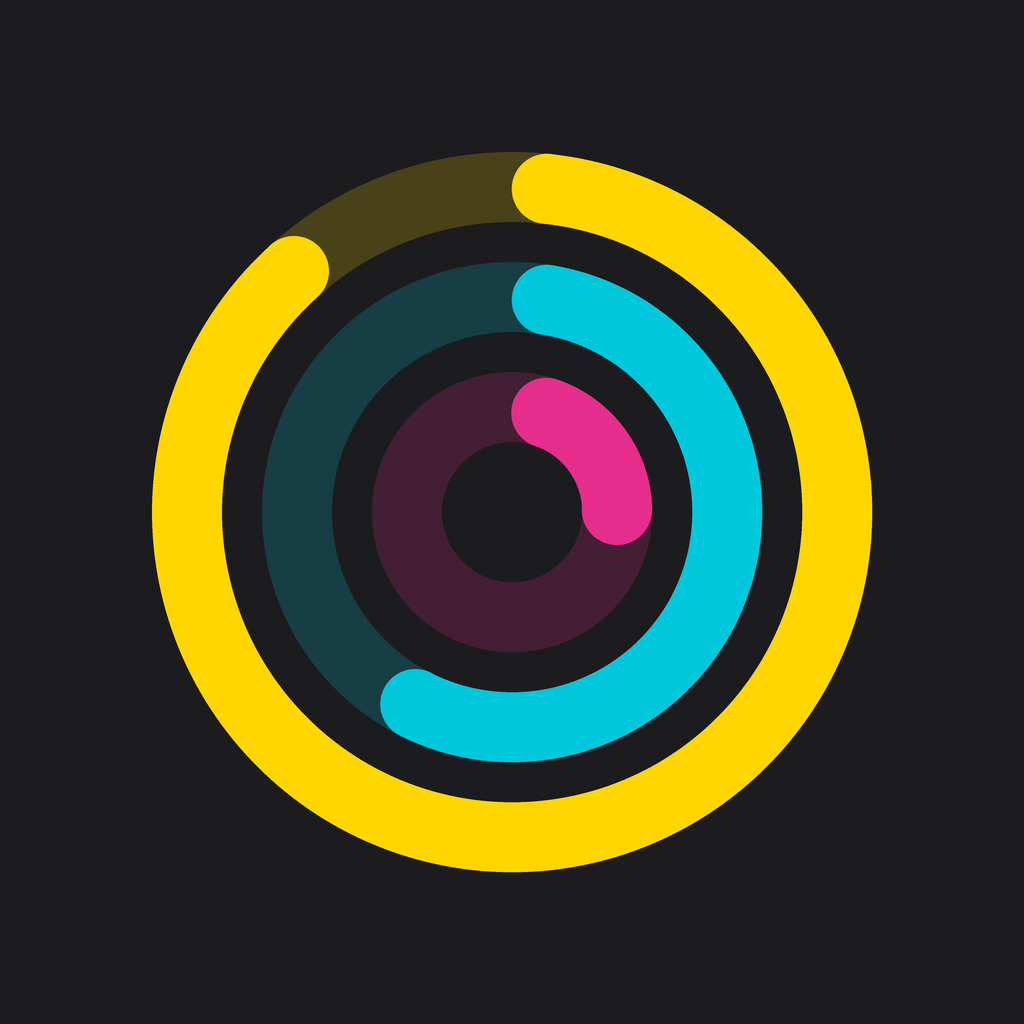
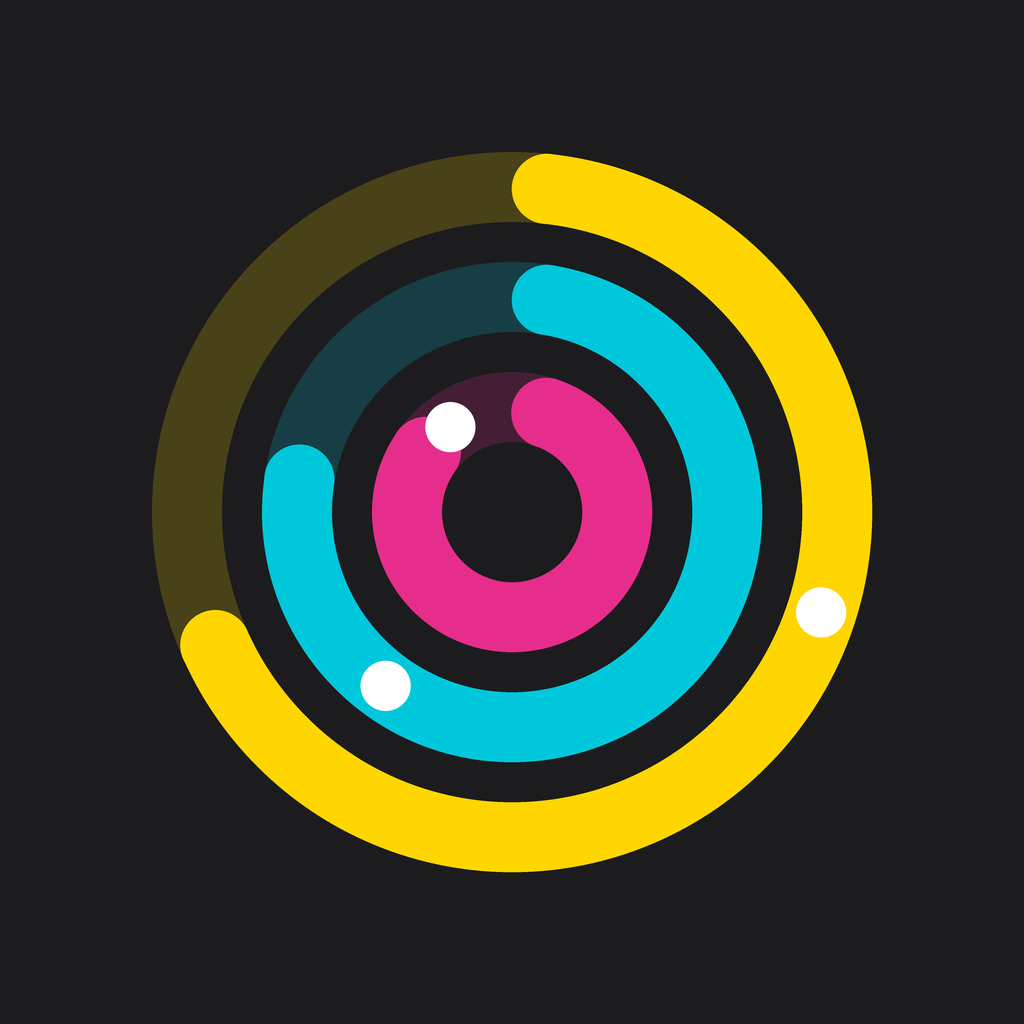
fix(agents): never let a question hook block Claude
Answering questions from the phone shipped as an always-on PreToolUse hook with a 300s timeout. That is the one hook Headroom installs that can block a tool call, and it made AskUserQuestion depend on Headroom being up: with the host down — which happens whenever the LaunchAgent is repointed mid-work — every question in every session stalled and came back interrupted.

It is off by default now, installed only when agent_remote_questions is on, and switching that off removes the hook instead of leaving a blocker behind. The wait drops from 285 seconds to 25: an approval has nowhere else to be answered, but a question is sitting unanswerable on the Mac for exactly as long as we hold it.

"No decision" is also an empty body now rather than an explicit permissionDecision value. That enum was read from documentation rather than verified, and a wrong value there does not degrade — it breaks the call. An empty body means the same thing in every version of the contract.

Changed region(s): [[0.125, 0.2188, 0.6562, 0.7188], [0.7812, 0.5625, 0.8438, 0.625]]

diff --git a/host/claude_hooks.py b/host/claude_hooks.py
@@ -8,17 +8,20 @@ import shutil
 import tempfile
 import urllib.parse
 
-VERSION = 2
+VERSION = 3
 DEFAULT_SETTINGS_PATH = os.path.expanduser("~/.claude/settings.json")
 MANAGED_PATH_PREFIX = "/agents/hooks/claude/"
+# PreToolUse is not in the always-installed set. It is the only hook here that
+# can block a tool call, so it is installed only when remote answering is
+# switched on — see app_config.agent_remote_questions.
 EVENTS = (
     "PermissionRequest",
-    "PreToolUse",
     "UserPromptSubmit",
     "Stop",
     "Notification",
     "SessionEnd",
 )
+OPTIONAL_EVENTS = ("PreToolUse",)
 
 # PreToolUse fires for every tool call, which is far more traffic than the
 # gateway wants. Scoped to the one tool whose answer Headroom can carry back:
@@ -30,8 +33,12 @@ ENDPOINTS = {
     "PreToolUse": "question",
 }
 
-# Hooks that park while a phone decides, versus ones that just post and go.
-SLOW_EVENTS = ("PermissionRequest", "PreToolUse")
+# How long each hook may park while a phone decides. A question waits far less
+# than an approval: the approval has nowhere else to be answered, while a
+# question is sitting unanswerable on the Mac for exactly as long as we hold
+# it. The value must stay above the adapter's own wait so the timeout that
+# fires is ours, with a decision, rather than Claude's, with none.
+TIMEOUTS = {"PermissionRequest": 300, "PreToolUse": 30}
 
 
 def _url(port, event):
@@ -47,7 +54,7 @@ def _entry(port, event):
     hook = {
         "type": "http",
         "url": _url(port, event),
-        "timeout": 300 if event in SLOW_EVENTS else 5,
+        "timeout": TIMEOUTS.get(event, 5),
     }
     return {"matcher": MATCHERS.get(event, ""), "hooks": [hook]}
 
@@ -139,11 +146,27 @@ def inspect(path=DEFAULT_SETTINGS_PATH, port=8737):
     }
 
 
-def install(path=DEFAULT_SETTINGS_PATH, port=8737):
+def install(path=DEFAULT_SETTINGS_PATH, port=8737, remote_questions=False):
+    """Install the observing hooks, and the blocking one only if asked.
+
+    PreToolUse is removed when `remote_questions` is off, so switching the
+    setting back off actually takes the hook out rather than leaving a blocker
+    behind.
+    """
     path = os.path.expanduser(path)
     value = _read(path)
     hooks = value.get("hooks")
     hooks = hooks if isinstance(hooks, dict) else {}
+    for event in OPTIONAL_EVENTS:
+        entries = hooks.get(event)
+        entries = entries if isinstance(entries, list) else []
+        entries = [entry for entry in entries if not _managed(entry)]
+        if remote_questions:
+            entries.append(_entry(port, event))
+        if entries:
+            hooks[event] = entries
+        else:
+            hooks.pop(event, None)
     for event in EVENTS:
         entries = hooks.get(event)
         entries = entries if isinstance(entries, list) else []

diff --git a/host/claude_code.py b/host/claude_code.py
@@ -23,6 +23,10 @@ import claude_hooks
 PROVIDER = "claude-code"
 ADAPTER = "claude-http-hooks"
 DEFAULT_WAIT_SECONDS = 285
+# A question is usually answered at the keyboard. Holding one for the
+# permission wait made it dead air on the Mac for nearly five minutes,
+# which is worse than never offering it on the phone at all.
+QUESTION_WAIT_SECONDS = 25
 MAX_WAIT_SECONDS = 600
 
 APPROVE_ONCE = {
@@ -290,13 +294,14 @@ def _answered(question, answer):
 
 
 def _defer():
-    """No opinion: let Claude's ordinary permission flow take over."""
-    return {
-        "hookSpecificOutput": {
-            "hookEventName": "PreToolUse",
-            "permissionDecision": "defer",
-        },
-    }
+    """No opinion, said the safest way there is: say nothing.
+
+    An empty body is unambiguously "this hook has no decision" in every
+    version of the hook contract. An explicit `permissionDecision` value is
+    only as safe as our reading of the enum, and a wrong guess there does not
+    degrade — it breaks the tool call.
+    """
+    return {}
 
 
 class _PendingPermission:
@@ -458,7 +463,7 @@ class ClaudeCodeHooks:
             },
         }
 
-    def question_request(self, payload, wait_seconds=DEFAULT_WAIT_SECONDS):
+    def question_request(self, payload, wait_seconds=QUESTION_WAIT_SECONDS):
         """Offer a question's own options as answers, via the deny channel.
 
         Returns `defer` for anything we cannot answer cleanly, which is the

diff --git a/host/test_claude_code.py b/host/test_claude_code.py
@@ -373,14 +373,12 @@ class ClaudeCodeHooksTests(unittest.TestCase):
         self.answer(event, "ask_on_mac")
         thread.join(timeout=2)
         self.assertEqual(
-            result["value"]["hookSpecificOutput"]["permissionDecision"],
-            "defer",
-        )
+            result["value"], {},
+            "no decision, said the only way that is safe in every version")
 
     def test_unanswered_question_defers_to_the_mac(self):
         result = self.adapter.question_request(self.question(), wait_seconds=1)
-        self.assertEqual(
-            result["hookSpecificOutput"]["permissionDecision"], "defer")
+        self.assertEqual(result, {})
         self.assertEqual(self.store.list(state="all")[0]["state"], "expired")
 
     def test_shapes_we_cannot_answer_cleanly_defer_without_a_row(self):
@@ -401,9 +399,8 @@ class ClaudeCodeHooksTests(unittest.TestCase):
             ]},
         }
         for payload in cases + [many]:
-            result = self.adapter.question_request(payload, wait_seconds=1)
             self.assertEqual(
-                result["hookSpecificOutput"]["permissionDecision"], "defer")
+                self.adapter.question_request(payload, wait_seconds=1), {})
         self.assertEqual(self.store.list(state="all"), [])
 
     def test_finished_notices_replace_rather_than_stack(self):

diff --git a/host/app_config.py b/host/app_config.py
@@ -329,6 +329,25 @@ def remember_task_folder(folder):
     return ordered
 
 
+def agent_remote_questions():
+    """Whether Headroom may hold a Claude question open for a phone answer.
+
+    Off by default, and deliberately so. Intercepting a question at
+    `PreToolUse` is the only way to answer it remotely, but it also makes the
+    question unanswerable at the Mac while Headroom holds it — and if the host
+    is down or restarting, every question in every session pays for it. That
+    is a bad trade unless you actually want to answer from your phone.
+    """
+    return get("agent_remote_questions") is True
+
+
+def set_agent_remote_questions(enabled):
+    if not isinstance(enabled, bool):
+        raise ValueError("enabled must be true or false")
+    _persist(agent_remote_questions=enabled)
+    return enabled
+
+
 def agent_gateway_enabled():
     """Whether Headroom may launch its supervised coding-agent adapter."""
     return get("agent_gateway_enabled") is True

diff --git a/host/headroom_server.py b/host/headroom_server.py
@@ -1730,8 +1730,12 @@ class Handler(BaseHTTPRequestHandler):
             action = payload.get("action")
             try:
                 if action == "install":
+                    remote = payload.get("remote_questions")
+                    if isinstance(remote, bool):
+                        app_config.set_agent_remote_questions(remote)
                     result = claude_hooks.install(
-                        port=self.server.server_port)
+                        port=self.server.server_port,
+                        remote_questions=app_config.agent_remote_questions())
                 elif action == "uninstall":
                     result = claude_hooks.uninstall(
                         port=self.server.server_port)

diff --git a/host/test_agent_http.py b/host/test_agent_http.py
@@ -205,7 +205,7 @@ class AgentHTTPTests(unittest.TestCase):
             "/agents/claude/config", {"action": "install"})
         self.assertEqual(status, 200)
         self.assertEqual(result["state"], "installed")
-        install.assert_called_once_with(port=8737)
+        install.assert_called_once_with(port=8737, remote_questions=False)
 
 
 if __name__ == "__main__":

diff --git a/docs/agent-attention.md b/docs/agent-attention.md
@@ -91,8 +91,20 @@ again — which is why `structured_question` reports `experimental` rather than
 - **`defer` is the default.** Timeout, an unmapped action, or **Ask on Mac**
   all defer, which is the documented way to say "no opinion" and hands the
   question back untouched.
-- **The hook is scoped `"matcher": "AskUserQuestion"`.** `PreToolUse`
-  otherwise fires on every tool call in every session.
+- **The hook is scoped `"matcher": "AskUserQuestion"`, and it is off by
+  default.** `PreToolUse` is the only hook Headroom installs that can block a
+  tool call, and holding a question is not free: it is unanswerable at the Mac
+  for exactly as long as Headroom holds it, and a host that is down or
+  restarting takes every question in every session with it. That is a bad
+  trade unless you actually want to answer from your phone, so it installs
+  only when `agent_remote_questions` is on, and switching the setting off
+  removes the hook rather than leaving a blocker behind.
+- **The wait is short.** A question parks for 25 seconds, not the approval's
+  285. An approval has nowhere else to be answered; a question is sitting in
+  front of you on the Mac the whole time.
+- **No decision is an empty body.** Returning an explicit `permissionDecision`
+  is only as safe as our reading of the enum, and a wrong value there does not
+  degrade — it breaks the tool call.
 - **No duplicate row.** A denied `PreToolUse` stops the chain, so
   `PermissionRequest` never fires for a question that was answered. When the
   phone stays quiet, the deferral lets the ordinary permission flow resume.

diff --git a/CHANGELOG.md b/CHANGELOG.md
@@ -97,6 +97,21 @@ whole class of silent breakage from reaching you in the next one.
   because a phone cannot browse the Mac's disk. The host remembers the last
   eight.
 
+### Fixed
+
+- Answering Claude's questions from the phone is now **off by default**, and
+  the hook that does it is only installed when it is on. `PreToolUse` is the
+  one hook Headroom installs that can block a tool call: while it holds a
+  question the question is unanswerable at the Mac, and a host that is down or
+  restarting takes every question in every session with it. Switching the
+  setting off removes the hook rather than leaving a blocker behind.
+- A held question now waits 25 seconds rather than the approval's 285. An
+  approval has nowhere else to be answered; a question is sitting in front of
+  you the whole time.
+- Headroom says "no decision" with an empty body instead of an explicit
+  `permissionDecision` value. A wrong guess at that enum does not degrade — it
+  breaks the tool call.
+
 ### Changed
 
 - Starting work from the phone rides the same Mac-granted **Answer coding

diff --git a/docs/rings.md b/docs/rings.md
@@ -42,11 +42,11 @@ complications go monochrome.
 
 `Shared/HeadroomRings.swift` is the Swift implementation. The constants beside
 `drawPaceRing` in `firmware/src/main.cpp` mirror it for the embedded display.
-The app icon is the same glyph without pace dots — three bands at 90 / 60 / 30
-percent in process CMY (yellow / cyan / magenta), rendered by
-`scripts/render_icon.py` into both asset catalogs and the App Store PNG. Live
-rings keep each provider's brand accent; the icon uses CMY so the arcs stay
-distinct at small sizes.
+The app icon is the same glyph — three bands in process CMY (yellow / cyan /
+magenta) at 70 / 80 / 90 percent outside-in, carrying pace dots at 30 / 60 / 90,
+rendered by `scripts/render_icon.py` into both asset catalogs and the App Store
+PNG. Live rings keep each provider's brand accent; the icon uses CMY so the arcs
+stay distinct at small sizes.
 
 The Mac catalog gets that glyph on Apple's icon grid: an 824-of-1024 rounded
 square with transparent margins, no baked shadow. macOS masks nothing for you,
